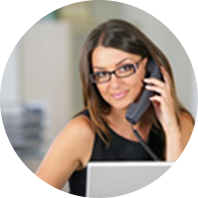
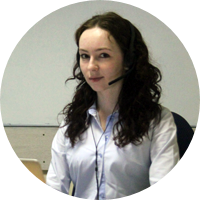
new imgs

diff --git a/templates/index.html b/templates/index.html
@@ -12,17 +12,17 @@
 
             <!-- Wrapper for slides -->
             <div class="carousel-inner" role="listbox">
-                <div class="item active" style="background-image: url({% static '/static/static/img/head_bg_new.jpg' %})">
+                <div class="item active" style="background-image: url({% static 'static/img/head_bg_new2.jpg' %})">
                     <div class="container main_container">
 										<div class="main_width50">
 											<h1 class="mainh1">Готовим школьников 8-11 классов <font class="orf">к ЕГЭ, ОГЭ и олимпиадам</font></h1>
-											<h2 class="mainh2">Увеличиваем результаты ЕГЭ <b>от 30 баллов</b> за 6 месяцев подготовки с преподавателями из лучших вузов Москвы!</h2>
+											<h2 class="mainh2">Увеличиваем результаты ЕГЭ <b>от 30 баллов за 4 месяца </b> подготовки с преподавателями из лучших вузов Москвы!</h2>
 											<a href="#" class="cmp_link btn_or">Записаться на пробный урок</a>
 										</div>
-										<div class="main_width502"> 
-											<div class="main_picture victor"></div>
-											<div class="main_name">Виктор Рабин</div>
-											<div class="main_desc">Преподаватель математики</div>
+										<div class="main_width502">
+											<!--<div class="main_picture2 girlp"></div>-->
+											<div class="main_name">Анна Баранова</div>
+											<div class="main_desc">Преподаватель CHALLENGE</div>
 											<!--<a href="http://egechallenge.ru/config_kurs.html?startint" class="btn_white">Старт интенсивов!</a>-->
 										</div>
                         <!-- <div class="cmp_bubble">Почему стоит записаться именно сейчас?<span class="cmp_bt">До 31 августа — <a href="#">договор по ценам прошлого года</a></span></div> -->
@@ -69,15 +69,15 @@
                 <div class="b2_item_text">Занятия в группах <b><br />от 3 до 7 человек </b> <br />или индивидуально</div>
             </div>
             <div class="b2_item">
-                <div class="b2_item_img"><img src="{% static '/static/static/img/b2_prepod.png' %}"></div>
+                <div class="b2_item_img"><img src="{% static 'static/img/b2_prepod.png' %}"></div>
                 <div class="b2_item_text"><b>Преподаватели —</b><br>выпускники ТОП-5 вузов Москвы с опытом <br>работы от 5 лет</div>
             </div>
             <div class="b2_item">
-                <div class="b2_item_img"><img src="{% static '/static/static/img/b2_icon3.png' %}"></div>
+                <div class="b2_item_img"><img src="{% static 'static/img/b2_icon3.png' %}"></div>
                 <div class="b2_item_text">Программы курсов</b><br />составлены по стандартам<br /> <b>ФИПИ и МИОО </b></div>
             </div>
             <div class="b2_item">
-                <div class="b2_item_img"><img src="{% static '/static/static/img/b2_sale.png' %}"></div>
+                <div class="b2_item_img"><img src="{% static 'static/img/b2_sale.png' %}"></div>
                 <div class="b2_item_text"><b>Акция!</b><br>При покупке курса<br><div class="bluelink">аттестация в подарок!<div class="saleinfo"> Пробный ЕГЭ/ОГЭ на официальных бланках <br /> по любому предмету. <br /> Бесплатно до 31 января!</div></div></div>
             </div>
         </div>
@@ -199,7 +199,7 @@
 							<div class="b7_owl_item">
 								<div class="step_img">
 									<b>1</b>
-									<img src="/static/static/img/step1.png" alt="">
+									<img src="{% static 'static/img/step1.png'%}" alt="">
 								</div>
 								<div class="step_name">Запись по телефону</div>
 								<div class="step_minfo">
@@ -213,7 +213,7 @@
 							<div class="b7_owl_item">
 								<div class="step_img">
 									<b>2</b>
-									<img src="/static/static/img/step2.png" alt="">
+									<img src="{% static 'static/img/step2.png'%}" alt="">
 								</div>
 								<div class="step_name">Консультация</div>
 								<div class="step_minfo">
@@ -227,7 +227,7 @@
 							<div class="b7_owl_item">
 								<div class="step_img">
 									<b>3</b>
-									<img src="/static/static/img/step3.png" alt="">
+									<img src="{% static 'static/img/step3.png'%}" alt="">
 								</div>
 								<div class="step_name">Пробное занятие</div>
 								<div class="step_minfo">
@@ -241,7 +241,7 @@
 							<div class="b7_owl_item">
 								<div class="step_img">
 									<b>4</b>
-									<img src="/static/static/img/step4.png" alt="">
+									<img src="{% static 'static/img/step4.png'%}" alt="">
 								</div>
 								<div class="step_name">Курс подготовки</div>
 								<div class="step_minfo">
@@ -255,7 +255,7 @@
 							<div class="b7_owl_item">
 								<div class="step_img">
 									<b>5</b>
-									<img src="/static/static/img/step5.png" alt="">
+									<img src="{% static 'static/img/step5.png'%}" alt="">
 								</div>
 								<div class="step_name">Аттестация</div>
 								<div class="step_minfo">
@@ -269,7 +269,7 @@
 							<div class="b7_owl_item">
 								<div class="step_img">
 									<b>6</b>
-									<img src="/static/static/img/step6.png" alt="">
+									<img src="{% static 'static/img/step6.png'%}" alt="">
 								</div>
 								<div class="step_name">Поддержка на экзамене</div>
 								<div class="step_minfo">
@@ -279,7 +279,7 @@
 								<div class="step_info">
 								После получения результатов ЕГЭ/ОГЭ преподаватели помогают добрать баллы на апелляции, если это необходимо
 								</div>
-							</div>	
+							</div>
 						</div>
 						</div>
         </div>
@@ -323,7 +323,6 @@
                 <span class="b9_text_head">Что советуют абитуриентам 2017 года<br />наши выпускники, поступившие<br />в лучшие вузы?</span>
                 <span class="b9_text_mhead">Покорённые вузы: </span>
                 <ul>
-                    <li><span>ВГИК имени С.А. Герасимова</span></li>
                     <li><span>ФинУниверситет при Правительстве РФ</span></li>
                     <li><span>МИРЭА</span></li>
                     <li><span>МГУ им. М.В. Ломоносова</span></li>
@@ -368,13 +367,13 @@
  —  Узнать свой уровень подготовки, пройдя тестирование по ЕГЭ и ОГЭ;<br/>
      —  Подробно разобрать свои ошибки с преподавателем;<br/>
      —  Записаться на бесплатное пробное занятие.<br/><br/>
-     
+
     Перед подготовкой к экзаменам важно знать свой начальный уровень.
-    Когда вы определите старт, то можно планировать результат на экзамене. 
-    Стоит уделять особое внимание темам, в которых есть недопонимание и вопросы. Наши преподаватели укажут ваши сильные и слабые стороны и подробно ответят на все вопросы. Тесты проходят по каждому предмету ЕГЭ/ОГЭ. 
-       <br/><br/>Записывайтесь по телефону: +7(499)348-23-00 
+    Когда вы определите старт, то можно планировать результат на экзамене.
+    Стоит уделять особое внимание темам, в которых есть недопонимание и вопросы. Наши преподаватели укажут ваши сильные и слабые стороны и подробно ответят на все вопросы. Тесты проходят по каждому предмету ЕГЭ/ОГЭ.
+       <br/><br/>Записывайтесь по телефону: +7(499)348-23-00
     <br/>  Ждем вас каждый день: с 13:00 до 19:00.
-    
+
                     </span>
 
                 </div>

diff --git a/templates/contacts.html b/templates/contacts.html
@@ -15,21 +15,21 @@
             </div>
             <span class="contacts_txt">В 3 минутах ходьбы от метро Сухаревская:<br />
             <b>Большая Сухаревская площадь, 16/18 с.1.</b> </span>
-             <br /> 
+             <br />
              1). Из стеклянных дверей метро направо.  <br /><br />
-2). Пройти 250 метров вдоль Садового кольца: мимо сквера и дома, похожего на терем (Садовое кольцо должно быть слева от вас). Дойти до Ананьевского переулка, перейти дорогу и повернуть направо. Вход со стороны переулка, вторая от угла красивая тёмная дверь с большим козырьком (подъезд №5).<br /> <br /> 
-3). Код 1#3439, подняться на 6 этаж, офис 85. 
-              <br /> <br /><br /> 
-              
+2). Пройти 250 метров вдоль Садового кольца: мимо сквера и дома, похожего на терем (Садовое кольцо должно быть слева от вас). Дойти до Ананьевского переулка, перейти дорогу и повернуть направо. Вход со стороны переулка, вторая от угла красивая тёмная дверь с большим козырьком (подъезд №5).<br /> <br />
+3). Код 1#3439, подняться на 6 этаж, офис 85.
+              <br /> <br /><br />
+
 Хотите задать вопрос про обучение?
 <br /> — позвоните нам: <b>+7 (499) 348-23-00</b>
 <br /> — либо напишите нам: <b>start@egechallenge.ru</b>
-<br /><br /> 
+<br /><br />
 Хотите работать в CHALLENGE? <br />Пришлите резюме на hr@egechallenge.ru.
 <br /><br />
 Вопросы партнёрства или иного сотрудничества? <br />
 Напишите на vs@egechallenge.ru.
-<br /><br /> 
+<br /><br />
             <div class="contacts_img">
               <iframe width="560" height="315" src="https://www.youtube.com/embed/msPG0Ggx91M" frameborder="0" allowfullscreen></iframe>
             </div>
@@ -38,7 +38,7 @@
             <ul class="contacts_ul">
                 <li><span class="show_modal3" id="1">Малый Сухаревский пер., 6 (м. Цветной Бульвар)</span></li>
                  <li><span class="show_modal3" id="2">от м. Трубная </span></li>
-                <li style="margin-top: 0;"><span class="show_modal3" id="3">от м. Сухаревская </span></li> 
+                <li style="margin-top: 0;"><span class="show_modal3" id="3">от м. Сухаревская </span></li>
 {#                <li><span class="show_modal3" id="4">Как проехать на машине и где припарковаться</span></li>#}
             </ul>
 {#            <div class="ppc_item_more_btn">Узнать подробнее о расположении</div><br />#}
@@ -46,8 +46,8 @@
 
         </div>
     </div>
-    
-    
+
+
     <!-- modalMap-->
 <div style="display: none;" id="lean_overlay">
     <div class="box-modal modal2-1" id="modal2">

diff --git a/templates/tpl.html b/templates/tpl.html
@@ -142,7 +142,8 @@ _tmr.push({id: "2844762", type: "pageView", start: (new Date()).getTime()});
 
 {% block main%}{% endblock %}
 
-{% comment %}<a href="../html/contacts.html">contacts</a><br/>
+{% comment %}
+<a href="../html/contacts.html">contacts</a><br/>
 <a href="../html/index.html">index</a><br/>
 <a href="../html/kurs.html">kurs</a><br/>
 <a href="../html/kurskonf.html">kurskonf</a><br/>
@@ -151,7 +152,8 @@ _tmr.push({id: "2844762", type: "pageView", start: (new Date()).getTime()});
 <a href="../html/prepodi.html">prepodi</a><br/>
 <a href="../html/stoimosti.html">stoimosti</a><br/>
 <a href="../html/system.html">system</a><br/>
-<a href="../html/ucheniki.html">ucheniki</a><br/>{% endcomment %}
+<a href="../html/ucheniki.html">ucheniki</a><br/>
+{% endcomment %}
 <div id="b_step" class="b_step">
 	<div class="container">
 		<div class="bh1">Сделайте <font class="orf">первый шаг</font> к своей цели!</div>
@@ -167,7 +169,7 @@ _tmr.push({id: "2844762", type: "pageView", start: (new Date()).getTime()});
 <footer>
     <div class="container">
 				<div class="h_left">
-					<a href="#" class="h_logo"><img src="/static/static/img/logo.png"><span>CHALLENGE</span></a>
+					<a href="#" class="h_logo"><img src="{% static 'static/img/logo.png'%}"><span>CHALLENGE</span></a>
 					<a href="#" class="h_pay btn_blue btn_small">Оплатить курсы</a>
         </div>
 				<div class="h_right">
@@ -184,7 +186,7 @@ _tmr.push({id: "2844762", type: "pageView", start: (new Date()).getTime()});
 </footer>
 <div id="creator">
     <div class="container row_creat">
-        <span class="creator_copyright">2014-2016 © OOO «Первый челлендж». Все права защищены</span>
+        <span class="creator_copyright">2014-2017 © OOO «Первый челлендж». Все права защищены</span>
 				<div class="f_links_new">
 					<a href="/about/">О центре</a>
 					<a href="/courses/">Курсы</a>

diff --git a/templates/predmet.html b/templates/predmet.html
@@ -92,7 +92,7 @@
                         <a class="b5_owl_link b5_big show_modal3 btn_blue btn_small" id="prep{{ tutor.id }}" href="#!">Подробнее</a>
                     </div>
                     {% endfor %}
-                </div>  
+                </div>
             </div>
             <a href="/tutors/" class="btn_blue btn_small b5_ling">Посмотреть всех Преподавателей</a>
         </div>
